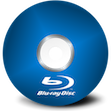
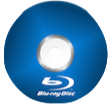
Fixed timing/CPU issue
used pygame.get_time() to decrease CPU load and increase frame-rate.
Also edited the pngs to reduce shadow

Changed region(s): [[0.0, 0.0, 1.0, 1.0], [0.4595, 0.4327, 0.4865, 0.4615]]

diff --git a/Blu-Ray-Breaker.py b/Blu-Ray-Breaker.py
@@ -1,3 +1,4 @@
+#!/usr/bin/env python
 # Jacob Newman
 # Created 12/26/2013
 
@@ -7,25 +8,29 @@ from pygame.locals import *
 
 ####### Constants ##########
 disc_diameter = 10
-number_of_discs = 7
+number_of_discs = 3
 #testing speeds = [1,-1]
 speeds = [-10,-9,-8,-7,-6,6,7,8,9,10]
 font_color = (0,0,0)
+one = 1000
+two = 2000
+three = 3000
+four = 4000
 ############################
 
 
 
 # Helper Functions
 def countdown():
-    if time > 60 and time < 120:
+    if time > one and time < two:
         myfont = pygame.font.SysFont("helvetica", 100)
         label = myfont.render("3", 1, font_color)
         screen.blit(label, (500, 250))
-    elif time >= 120 and time < 180:
+    elif time >= two and time < three:
         myfont = pygame.font.SysFont("helvetica", 100)
         label = myfont.render("2", 1, font_color)
         screen.blit(label, (500, 250))
-    elif time >= 180 and time < 260:
+    elif time >= three and time < four:
         myfont = pygame.font.SysFont("helvetica", 100)
         label = myfont.render("1", 1, font_color)
         screen.blit(label, (500, 250))
@@ -105,12 +110,12 @@ score = 0
 while True:
     #Limit the fps and count each frame
     clock.tick(60)
-    time += 1
+    time += clock.get_time()
     # Background
     screen.blit(background, (0,0))
     
     #Discs
-    if time >= 260 and disc_list != []:
+    if time >= four and disc_list != []:
         disc_list[0].position[0] += disc_list[0].xspeed
         disc_list[0].position[1] += disc_list[0].yspeed
         screen.blit(disc_list[0].image, (disc_list[0].position[0],disc_list[0].position[1]))
@@ -132,7 +137,7 @@ while True:
     if disc_list != []:
         countdown()
 
-    if disc_list == [] and time <= 240:
+    if disc_list == [] and time <= four:
             myfont = pygame.font.SysFont("helvetica", 100)
             label = myfont.render("Game Over", 1, font_color)
 
@@ -142,9 +147,9 @@ while True:
             screen.blit(score_label, (180, 340))
 
             
-            if time == 240:
-                pygame.quit()
-                sys.exit()
+    if disc_list == [] and time > four:
+            pygame.quit()
+            sys.exit()
 
     #Event controller
     for event in pygame.event.get():
@@ -152,7 +157,7 @@ while True:
             pygame.quit()
             sys.exit()
 
-        if event.type == MOUSEBUTTONDOWN and time > 260:
+        if event.type == MOUSEBUTTONDOWN and time > four:
             x,y=event.pos
             x_diff = math.fabs(x - (disc_list[0].position[0]+55))
             y_diff = math.fabs(y - (disc_list[0].position[1]+55))
